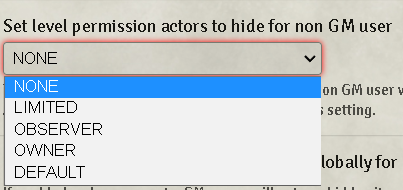
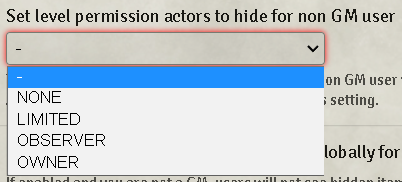
u

Changed region(s): [[0.0, 0.0549, 1.0, 1.0], [0.8657, 0.6868, 0.8955, 0.7143]]

diff --git a/hidden-entity-links.js b/hidden-entity-links.js
@@ -22,15 +22,11 @@ class Settings {
       default: 0,
       type: Number,
       choices: {
-        0: game.i18n.localize(`${HIDDEN_ENTITY_LINKS_MODULE_NAME}.settings.level-permission.none`),
-        1: game.i18n.localize(`${HIDDEN_ENTITY_LINKS_MODULE_NAME}.settings.level-permission.limited`),
-        2: game.i18n.localize(`${HIDDEN_ENTITY_LINKS_MODULE_NAME}.settings.level-permission.observer`),
-        3: game.i18n.localize(`${HIDDEN_ENTITY_LINKS_MODULE_NAME}.settings.level-permission.owner`),
-        // 4: game.i18n.localize(`${HIDDEN_ENTITY_LINKS_MODULE_NAME}.settings.level-permission.observerlimited`),
-        // 5: game.i18n.localize(`${HIDDEN_ENTITY_LINKS_MODULE_NAME}.settings.level-permission.observerowner`),
-        // 6: game.i18n.localize(`${HIDDEN_ENTITY_LINKS_MODULE_NAME}.settings.level-permission.limitedowner`),
-        // 7: game.i18n.localize(`${HIDDEN_ENTITY_LINKS_MODULE_NAME}.settings.level-permission.observerlimitedowner`),
-        10: game.i18n.localize(`${HIDDEN_ENTITY_LINKS_MODULE_NAME}.settings.level-permission.default`),
+        0: game.i18n.localize(`${HIDDEN_ENTITY_LINKS_MODULE_NAME}.settings.level-permission.empty`),
+        1: game.i18n.localize(`${HIDDEN_ENTITY_LINKS_MODULE_NAME}.settings.level-permission.none`),
+        2: game.i18n.localize(`${HIDDEN_ENTITY_LINKS_MODULE_NAME}.settings.level-permission.limited`),
+        3: game.i18n.localize(`${HIDDEN_ENTITY_LINKS_MODULE_NAME}.settings.level-permission.observer`),
+        4: game.i18n.localize(`${HIDDEN_ENTITY_LINKS_MODULE_NAME}.settings.level-permission.owner`),
       },
     });
     game.settings.register(HIDDEN_ENTITY_LINKS_MODULE_NAME, 'hide-items', {
@@ -49,15 +45,11 @@ class Settings {
       default: 0,
       type: Number,
       choices: {
-        0: game.i18n.localize(`${HIDDEN_ENTITY_LINKS_MODULE_NAME}.settings.level-permission.none`),
-        1: game.i18n.localize(`${HIDDEN_ENTITY_LINKS_MODULE_NAME}.settings.level-permission.limited`),
-        2: game.i18n.localize(`${HIDDEN_ENTITY_LINKS_MODULE_NAME}.settings.level-permission.observer`),
-        3: game.i18n.localize(`${HIDDEN_ENTITY_LINKS_MODULE_NAME}.settings.level-permission.owner`),
-        // 4: game.i18n.localize(`${HIDDEN_ENTITY_LINKS_MODULE_NAME}.settings.level-permission.observerlimited`),
-        // 5: game.i18n.localize(`${HIDDEN_ENTITY_LINKS_MODULE_NAME}.settings.level-permission.observerowner`),
-        // 6: game.i18n.localize(`${HIDDEN_ENTITY_LINKS_MODULE_NAME}.settings.level-permission.limitedowner`),
-        // 7: game.i18n.localize(`${HIDDEN_ENTITY_LINKS_MODULE_NAME}.settings.level-permission.observerlimitedowner`)
-        10: game.i18n.localize(`${HIDDEN_ENTITY_LINKS_MODULE_NAME}.settings.level-permission.default`),
+        0: game.i18n.localize(`${HIDDEN_ENTITY_LINKS_MODULE_NAME}.settings.level-permission.empty`),
+        1: game.i18n.localize(`${HIDDEN_ENTITY_LINKS_MODULE_NAME}.settings.level-permission.none`),
+        2: game.i18n.localize(`${HIDDEN_ENTITY_LINKS_MODULE_NAME}.settings.level-permission.limited`),
+        3: game.i18n.localize(`${HIDDEN_ENTITY_LINKS_MODULE_NAME}.settings.level-permission.observer`),
+        4: game.i18n.localize(`${HIDDEN_ENTITY_LINKS_MODULE_NAME}.settings.level-permission.owner`),
       },
     });
     game.settings.register(HIDDEN_ENTITY_LINKS_MODULE_NAME, 'hide-journals', {
@@ -76,15 +68,11 @@ class Settings {
       default: 0,
       type: Number,
       choices: {
-        0: game.i18n.localize(`${HIDDEN_ENTITY_LINKS_MODULE_NAME}.settings.level-permission.none`),
-        1: game.i18n.localize(`${HIDDEN_ENTITY_LINKS_MODULE_NAME}.settings.level-permission.limited`),
-        2: game.i18n.localize(`${HIDDEN_ENTITY_LINKS_MODULE_NAME}.settings.level-permission.observer`),
-        3: game.i18n.localize(`${HIDDEN_ENTITY_LINKS_MODULE_NAME}.settings.level-permission.owner`),
-        // 4: game.i18n.localize(`${HIDDEN_ENTITY_LINKS_MODULE_NAME}.settings.level-permission.observerlimited`),
-        // 5: game.i18n.localize(`${HIDDEN_ENTITY_LINKS_MODULE_NAME}.settings.level-permission.observerowner`),
-        // 6: game.i18n.localize(`${HIDDEN_ENTITY_LINKS_MODULE_NAME}.settings.level-permission.limitedowner`),
-        // 7: game.i18n.localize(`${HIDDEN_ENTITY_LINKS_MODULE_NAME}.settings.level-permission.observerlimitedowner`)
-        10: game.i18n.localize(`${HIDDEN_ENTITY_LINKS_MODULE_NAME}.settings.level-permission.default`),
+        0: game.i18n.localize(`${HIDDEN_ENTITY_LINKS_MODULE_NAME}.settings.level-permission.empty`),
+        1: game.i18n.localize(`${HIDDEN_ENTITY_LINKS_MODULE_NAME}.settings.level-permission.none`),
+        2: game.i18n.localize(`${HIDDEN_ENTITY_LINKS_MODULE_NAME}.settings.level-permission.limited`),
+        3: game.i18n.localize(`${HIDDEN_ENTITY_LINKS_MODULE_NAME}.settings.level-permission.observer`),
+        4: game.i18n.localize(`${HIDDEN_ENTITY_LINKS_MODULE_NAME}.settings.level-permission.owner`),
       },
     });
     game.settings.register(HIDDEN_ENTITY_LINKS_MODULE_NAME, 'hide-rolltables', {
@@ -103,15 +91,11 @@ class Settings {
       default: 0,
       type: Number,
       choices: {
-        0: game.i18n.localize(`${HIDDEN_ENTITY_LINKS_MODULE_NAME}.settings.level-permission.none`),
-        1: game.i18n.localize(`${HIDDEN_ENTITY_LINKS_MODULE_NAME}.settings.level-permission.limited`),
-        2: game.i18n.localize(`${HIDDEN_ENTITY_LINKS_MODULE_NAME}.settings.level-permission.observer`),
-        3: game.i18n.localize(`${HIDDEN_ENTITY_LINKS_MODULE_NAME}.settings.level-permission.owner`),
-        // 4: game.i18n.localize(`${HIDDEN_ENTITY_LINKS_MODULE_NAME}.settings.level-permission.observerlimited`),
-        // 5: game.i18n.localize(`${HIDDEN_ENTITY_LINKS_MODULE_NAME}.settings.level-permission.observerowner`),
-        // 6: game.i18n.localize(`${HIDDEN_ENTITY_LINKS_MODULE_NAME}.settings.level-permission.limitedowner`),
-        // 7: game.i18n.localize(`${HIDDEN_ENTITY_LINKS_MODULE_NAME}.settings.level-permission.observerlimitedowner`)
-        10: game.i18n.localize(`${HIDDEN_ENTITY_LINKS_MODULE_NAME}.settings.level-permission.default`),
+        0: game.i18n.localize(`${HIDDEN_ENTITY_LINKS_MODULE_NAME}.settings.level-permission.empty`),
+        1: game.i18n.localize(`${HIDDEN_ENTITY_LINKS_MODULE_NAME}.settings.level-permission.none`),
+        2: game.i18n.localize(`${HIDDEN_ENTITY_LINKS_MODULE_NAME}.settings.level-permission.limited`),
+        3: game.i18n.localize(`${HIDDEN_ENTITY_LINKS_MODULE_NAME}.settings.level-permission.observer`),
+        4: game.i18n.localize(`${HIDDEN_ENTITY_LINKS_MODULE_NAME}.settings.level-permission.owner`),
       },
     });
     game.settings.register(HIDDEN_ENTITY_LINKS_MODULE_NAME, 'hide-scenes', {
@@ -138,15 +122,11 @@ class Settings {
     //   default: 0,
     //   type: Number,
     //   choices: {
-    //     0: game.i18n.localize(`${HIDDEN_ENTITY_LINKS_MODULE_NAME}.settings.level-permission.none`),
-    //     1: game.i18n.localize(`${HIDDEN_ENTITY_LINKS_MODULE_NAME}.settings.level-permission.limited`),
-    //     2: game.i18n.localize(`${HIDDEN_ENTITY_LINKS_MODULE_NAME}.settings.level-permission.observer`),
-    //     3: game.i18n.localize(`${HIDDEN_ENTITY_LINKS_MODULE_NAME}.settings.level-permission.owner`),
-    //     // 4: game.i18n.localize(`${HIDDEN_ENTITY_LINKS_MODULE_NAME}.settings.level-permission.observerlimited`),
-    //     // 5: game.i18n.localize(`${HIDDEN_ENTITY_LINKS_MODULE_NAME}.settings.level-permission.observerowner`),
-    //     // 6: game.i18n.localize(`${HIDDEN_ENTITY_LINKS_MODULE_NAME}.settings.level-permission.limitedowner`),
-    //     // 7: game.i18n.localize(`${HIDDEN_ENTITY_LINKS_MODULE_NAME}.settings.level-permission.observerlimitedowner`)
-    //     10: game.i18n.localize(`${HIDDEN_ENTITY_LINKS_MODULE_NAME}.settings.level-permission.default`),
+      // 0: game.i18n.localize(`${HIDDEN_ENTITY_LINKS_MODULE_NAME}.settings.level-permission.empty`),
+      // 1: game.i18n.localize(`${HIDDEN_ENTITY_LINKS_MODULE_NAME}.settings.level-permission.none`),
+      // 2: game.i18n.localize(`${HIDDEN_ENTITY_LINKS_MODULE_NAME}.settings.level-permission.limited`),
+      // 3: game.i18n.localize(`${HIDDEN_ENTITY_LINKS_MODULE_NAME}.settings.level-permission.observer`),
+      // 4: game.i18n.localize(`${HIDDEN_ENTITY_LINKS_MODULE_NAME}.settings.level-permission.owner`),
     //   },
     // });
     game.settings.register(HIDDEN_ENTITY_LINKS_MODULE_NAME, 'no-background-only-symbol', {
@@ -364,15 +344,11 @@ class HiddenEntityLinks {
   };
 
   _permissions = {
-    NONE: 0,
-    DEFAULT: 10,
-    LIMITED: 1,
-    OBSERVER: 2,
-    OWNER: 3,
-    // OBSERVER_LIMITED: 4,
-    // OBSERVER_OWNER: 5,
-    // LIMITED_OWNER: 6,
-    // OBSERVER_LIMITED_OWNER: 7,
+    EMPTY: 0,
+    NONE: 1,
+    LIMITED: 2,
+    OBSERVER: 3,
+    OWNER: 4,
   };
 
   /**
@@ -465,9 +441,14 @@ class HiddenEntityLinks {
     } else if (setting == 'level-permission-scenes') {
       set = game.settings.get(HIDDEN_ENTITY_LINKS_MODULE_NAME, 'level-permission-scenes');
     }
-    if (set == this._permissions.NONE) {
+    if (set == this._permissions.EMPTY) {
       result = true;
-    } else if (set == this._permissions.DEFAULT) {
+    // } else if (set == this._permissions.NONE) {
+    //   result = entity.testUserPermission(user, 'NONE')
+    //     && !entity.testUserPermission(user, 'LIMITED')
+    //     && !entity.testUserPermission(user, 'OBSERVER')
+    //     && !entity.testUserPermission(user, 'OWNER');
+    } else if (set == this._permissions.NONE) {
       result = entity.testUserPermission(user, 'LIMITED');
     } else if (set == this._permissions.LIMITED) {
       result = entity.testUserPermission(user, 'OBSERVER');

diff --git a/README.md b/README.md
@@ -28,35 +28,6 @@ The graphic interaction with new choices on the sidebar context let you decide t
 
 There is a integration based on the permission applied on the entities.
 
-## Features
-
-### Hide with right cick context integration
-
-Here some screenshots
-
-![img1](./wiki/scene_hide_1.png)![img2](./wiki/scene_hide_2.png)![img3](./wiki/scene_hide_3.png)![img4](./wiki/actor_hide_all.png)![img5](./wiki/actor_hide_1.png)![img6](./wiki/item_hide_1.png)![img7](./wiki/journalentry_hide_1.png)![img8](./wiki/rolltable_hide_1.png)
-
-### Permission manager integration 
-
-From version 1.0.7 you can hide by default the entites based on the permissions level of the player, it very hard to mantain trace of this so it advisable to use the togheter with the module [Permission Viewer](https://github.com/League-of-Foundry-Developers/fvtt-module-permission-viewer)
-
-On the module setting you can see a dropdown menu where to choose the permission level to set for the specific type.
-
-![perm1](:/../wiki/perm_dropdown.png)
-
-Remember the 5 permission on foundry are from lowest to highest NONE,DEFAULT,LIMITED,OBSERVER,OWNER. and remember each level of permissions in foundry inherits the permissions of the previous lower levels, therefore the permissions of OWNER also associate the permissions of OBSERVER, LIMITED, DEFAULT to the player, the permissions of LIMITED also associate the permissions of DEFAULT etc.
-
-Here are some screenshots to highlight the problem
-
-**ATTENTION:** Permissions help in certain contexts, but you can still force the hide feature from the context menu for example settanfo LIMITED all the entity with permission LIMITED for that player are "hide" by default, but maybe you want to "hide" some entity with observer permission you can still do that with the standard right click on the entity. The hide feature has priority over the "permissions control manager".
-
-Below is an example where as GM we set the 5 values NONE, LIMITED, OBSERVER, OWNER, DEFAULT respectively in the dropdown. Showing the view by the player that he has these exact privileges in 5 distinct entities.
-
-What GM see:
-
-
-
-
 ## Installation
 
 It's always easiest to install modules from the in game add-on browser.
@@ -79,6 +50,54 @@ This module uses the [socketLib](https://github.com/manuelVo/foundryvtt-socketli
 ## Known issue
 
 - I hate myself for this, but I could not find a way to update the elements on the sidebar to change the flag on the entities the method ui.sidebar.render (true); it should have worked, but that doesn't seem to be the case ... if anyone can find a solution let me know. FOR NOW YOU ARE FORCED TO REFRESH THE WEB PAGE.
+
+## Features
+
+### Hide with right cick context integration
+
+Here some screenshots
+
+![img1](./wiki/scene_hide_1.png)![img2](./wiki/scene_hide_2.png)![img3](./wiki/scene_hide_3.png)![img4](./wiki/actor_hide_all.png)![img5](./wiki/actor_hide_1.png)![img6](./wiki/item_hide_1.png)![img7](./wiki/journalentry_hide_1.png)![img8](./wiki/rolltable_hide_1.png)
+
+### Permission manager integration 
+
+From version 1.0.7 you can hide by default the entites based on the permissions level of the player, it very hard to mantain trace of this so it advisable to use the togheter with the module [Permission Viewer](https://github.com/League-of-Foundry-Developers/fvtt-module-permission-viewer)
+
+On the module setting you can see a dropdown menu where to choose the permission level to set for the specific type.
+
+![perm1](:/../wiki/perm_dropdown.png)
+
+Remember the 5 permission on foundry are from lowest to highest NONE,LIMITED,OBSERVER,OWNER. and remember each level of permissions in foundry inherits the permissions of the previous lower levels, therefore the permissions of OWNER also associate the permissions of OBSERVER,LIMITED,NONE to the player, the permissions of LIMITED also associate the permissions of NONE etc.
+
+Here are some screenshots to highlight the problem
+
+**ATTENTION:** Permissions help in certain contexts, but you can still force the hide feature from the context menu for example set the value to LIMITED  and all the entity with permission LIMITED for that player are "hide" by default, but maybe you want to "hide" some entity with observer permission you can still do that with the standard right click on the entity. The hide feature has priority over the "permissions control manager".
+
+Below is an example where as GM we set the values -, NONE, LIMITED, OBSERVER, OWNER respectively in the dropdown. Showing the view by the player that he has these exact privileges in the other distinct entities.
+
+What GM always see:
+
+![perm2](./wiki/perm_gm_view.png)
+
+Here what player see with the empty value "-":
+
+![permempty](./wiki/perm_player_view_empty.png)
+
+Here what player see with the empty value "NONE":
+
+![permnone](./wiki/perm_player_view_none.png)
+
+Here what player see with the empty value "LIMITED":
+
+![permlimited](./wiki/perm_player_view_limited.png)
+
+Here what player see with the empty value "OBSERVER":
+
+![permobserver](./wiki/perm_player_view_observer.png)
+
+Here what player see with the empty value "OWNER":
+
+![permowner](./wiki/perm_player_view_owner.png)
 
 ## API
 
